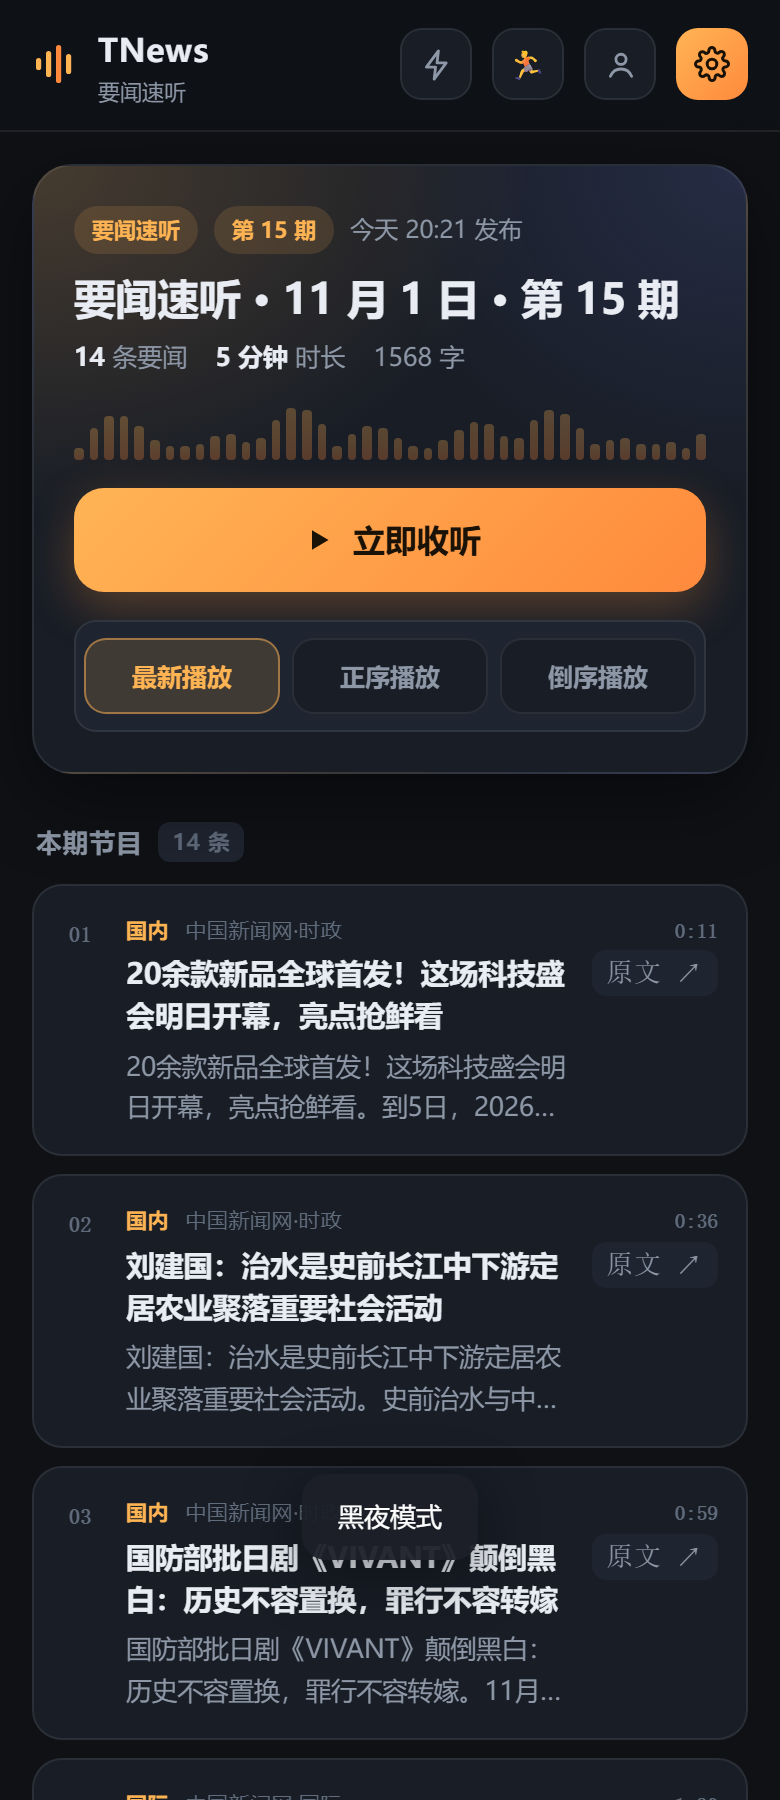
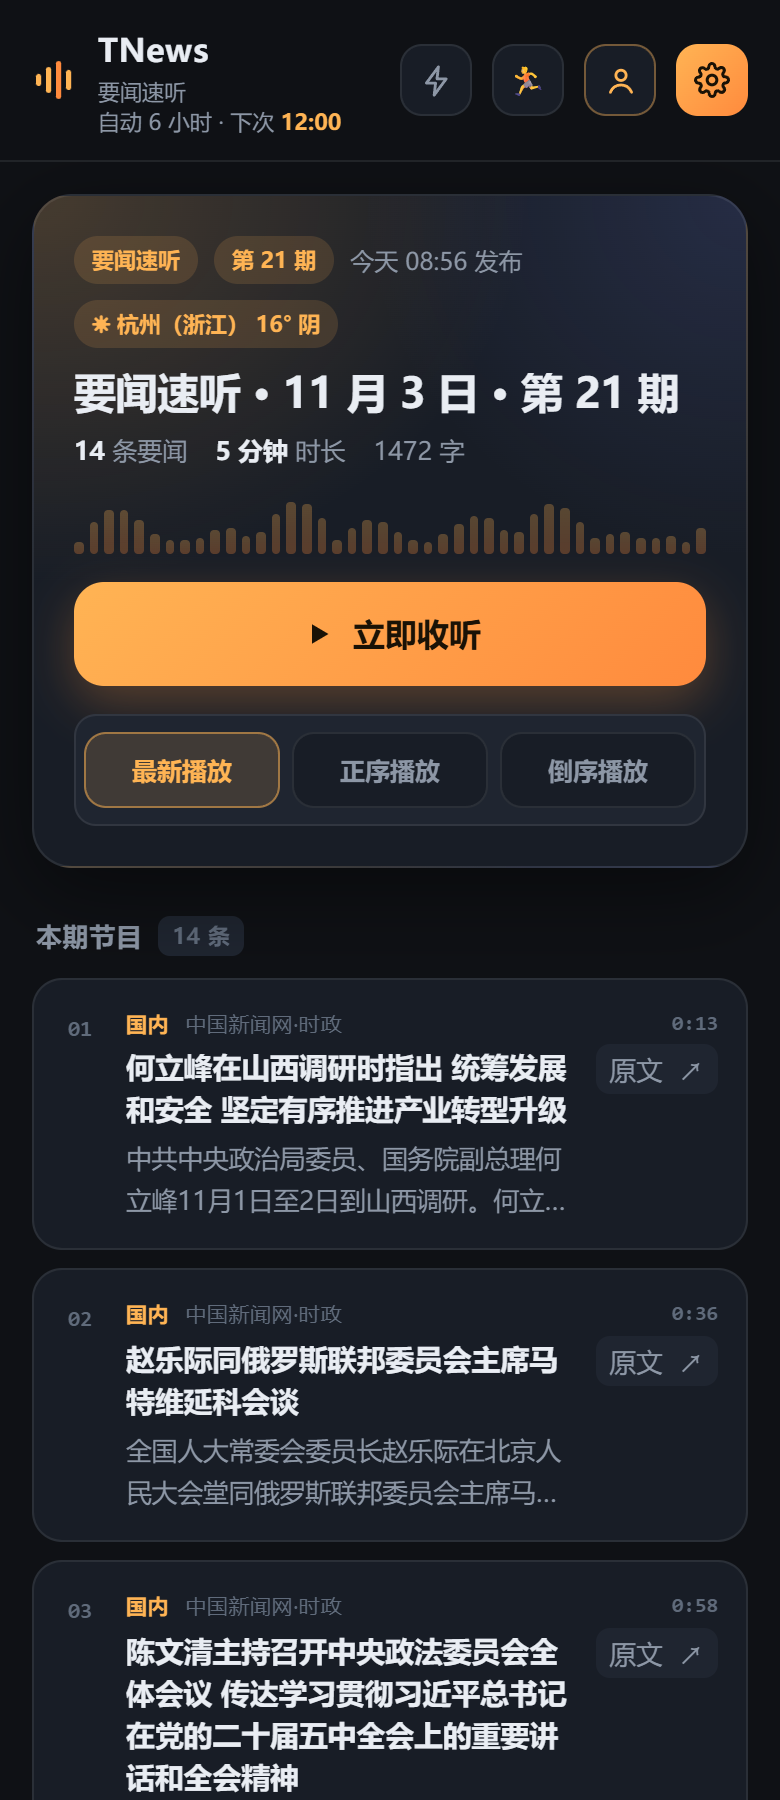
docs: 重截 README 两张界面截图（去掉误入镜的「黑夜模式」提示气泡）；简化过滤词提示文案

diff --git a/web/index.html b/web/index.html
@@ -674,7 +674,7 @@ main{padding:16px 16px 8px;max-width:720px;margin:0 auto}
           <div class="field" style="margin-top:8px">
             <input type="text" id="filterWords" placeholder="阅读全文|点击关注" style="width:100%" autocomplete="off">
           </div>
-          <div class="sumline" id="filterHint" style="display:block;line-height:1.8">多个词用 <b>|</b> 分隔。合成音频时遇到这些词直接跳过——比如过滤「阅读全文」，<b>AAAAAAAAAA阅读全文BBBBBBBB</b> 念出来就是 <b>AAAAAAAAAABBBBBBBB</b>；网页文字稿不受影响。最多 20 个</div>
+          <div class="sumline" id="filterHint" style="display:block;line-height:1.8">多个词用 <b>|</b> 分隔。合成音频时遇到这些词直接跳过，最多 20 个</div>
         </div>
         <div class="group">
           <div class="glabel"><span>跑步模式🏃</span></div>
